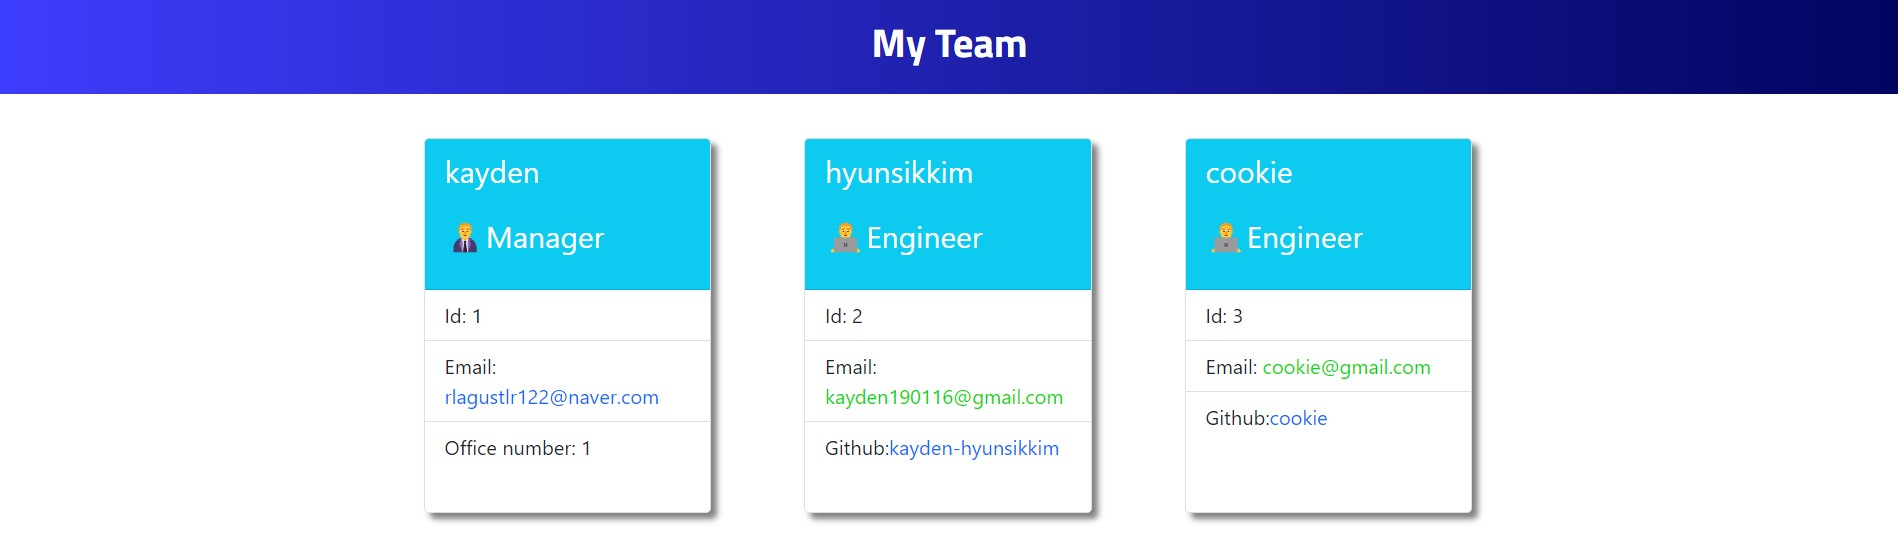
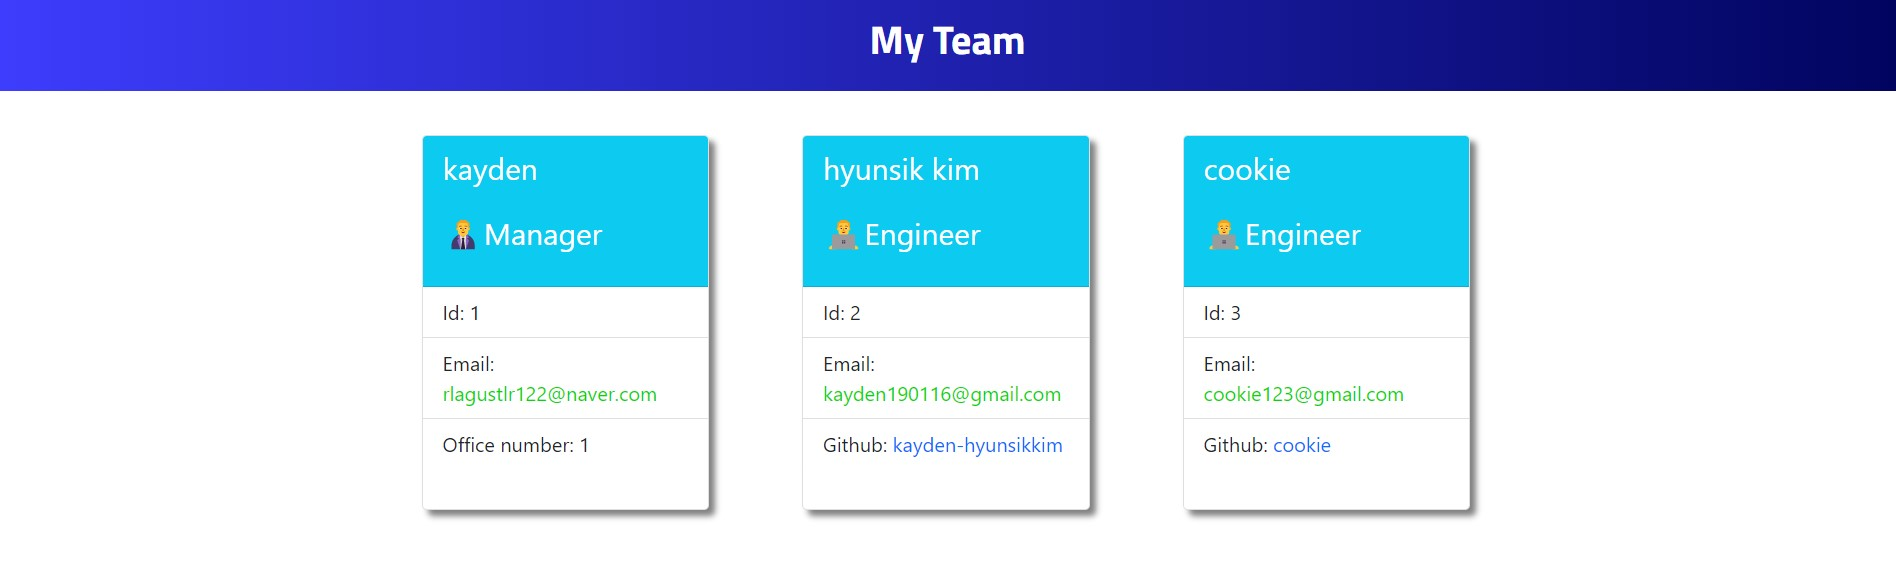
edited minor change for readme file and style

diff --git a/Develop/dist/index.html b/Develop/dist/index.html
@@ -1,19 +1,20 @@
 
-  <!DOCTYPE html>
-<html lang="en">
+    <!DOCTYPE html>
+    <html lang="en">
 
-<head>
-    <meta charset="UTF-8">
-    <meta http-equiv="X-UA-Compatible" content="IE=edge">
-    <meta name="viewport" content="width=device-width, initial-scale=1.0">
-    <link rel="stylesheet" href="https://cdn.jsdelivr.net/npm/bootstrap@5.1.3/dist/css/bootstrap.min.css">
-    <link href="https://fonts.googleapis.com/css2?family=Titillium+Web:ital,wght@0,400;0,700;1,200&display=swap"
-        rel="stylesheet" />
-    <link rel="stylesheet" href="./style.css">
-    <title>Team member generator</title>
-</head>
+    <head>
+        <meta charset="UTF-8">
+        <meta http-equiv="X-UA-Compatible" content="IE=edge">
+        <meta name="viewport" content="width=device-width, initial-scale=1.0">
+        <link rel="stylesheet" href="https://cdn.jsdelivr.net/npm/bootstrap@5.1.3/dist/css/bootstrap.min.css">
+        <link href="https://fonts.googleapis.com/css2?family=Titillium+Web:ital,wght@0,400;0,700;1,200&display=swap"
+                rel="stylesheet" />
+        <link rel="stylesheet" href="./style.css">
+        <title>Team member generator</title>
+    </head>
 
-<body>
+    <body>
+
     <header id="header">
         <p>My Team</p>
     </header>
@@ -26,20 +27,20 @@
         </div>
             <ul class="list-group list-group-flush">
                 <li class="list-group-item">Id: 1</li>
-                <li class="list-group-item">Email: <a href="mailto:rlagustlr122@naver.com">rlagustlr122@naver.com</a></li>
+                <li class="list-group-item">Email: <a id="Email" href="mailto:rlagustlr122@naver.com">rlagustlr122@naver.com</a></li>
                 <li class="list-group-item">Office number: 1</li>
             </ul>
         </div>
         
             <div class="card" style="width: 230px; display:inline-block; margin: 35px;">
             <div id="cardheader" class="card-header">
-                <p>hyunsikkim</p>
+                <p>hyunsik kim</p>
                 <p>👨💻Engineer</p>
             </div>
                 <ul class="list-group list-group-flush">
                     <li class="list-group-item">Id: 2</li>
                     <li class="list-group-item">Email: <a id="Email" href="mailto:kayden190116@gmail.com">kayden190116@gmail.com</a></li>
-                    <li class="list-group-item">Github:<a href="https://github.com/kayden-hyunsikkim" target="_blank">kayden-hyunsikkim</a></li>
+                    <li class="list-group-item">Github: <a href="https://github.com/kayden-hyunsikkim" target="_blank">kayden-hyunsikkim</a></li>
                 </ul>
             </div>
             
@@ -50,8 +51,8 @@
             </div>
                 <ul class="list-group list-group-flush">
                     <li class="list-group-item">Id: 3</li>
-                    <li class="list-group-item">Email: <a id="Email" href="mailto:cookie@gmail.com">cookie@gmail.com</a></li>
-                    <li class="list-group-item">Github:<a href="https://github.com/cookie" target="_blank">cookie</a></li>
+                    <li class="list-group-item">Email: <a id="Email" href="mailto:cookie123@gmail.com">cookie123@gmail.com</a></li>
+                    <li class="list-group-item">Github: <a href="https://github.com/cookie" target="_blank">cookie</a></li>
                 </ul>
             </div>
             
@@ -62,8 +63,8 @@
                 </div>
                     <ul class="list-group list-group-flush">
                         <li class="list-group-item">Id: 4</li>
-                        <li class="list-group-item">Email: <a href="mailto:jenny@gmail.com">jenny@gmail.com</a></li>
-                        <li class="list-group-item">School: adelaide uni</li>
+                        <li class="list-group-item">Email: <a id="Email" href="mailto:jenny342@gmail.com">jenny342@gmail.com</a></li>
+                        <li class="list-group-item">School: adelaide university</li>
                     </ul>
                 </div>
                 

diff --git a/Develop/utils/generateTeammember.js b/Develop/utils/generateTeammember.js
@@ -39,7 +39,7 @@ function generateTeammember(data) {
         </div>
             <ul class="list-group list-group-flush">
                 <li class="list-group-item">Id: ${data[i].id}</li>
-                <li class="list-group-item">Email: <a href="mailto:${data[i].email}">${data[i].email}</a></li>
+                <li class="list-group-item">Email: <a id="Email" href="mailto:${data[i].email}">${data[i].email}</a></li>
                 <li class="list-group-item">Office number: ${data[i].officenumber}</li>
             </ul>
         </div>
@@ -67,7 +67,7 @@ function generateTeammember(data) {
                 </div>
                     <ul class="list-group list-group-flush">
                         <li class="list-group-item">Id: ${data[i].id}</li>
-                        <li class="list-group-item">Email: <a href="mailto:${data[i].email}">${data[i].email}</a></li>
+                        <li class="list-group-item">Email: <a id="Email" href="mailto:${data[i].email}">${data[i].email}</a></li>
                         <li class="list-group-item">School: ${data[i].school}</li>
                     </ul>
                 </div>
